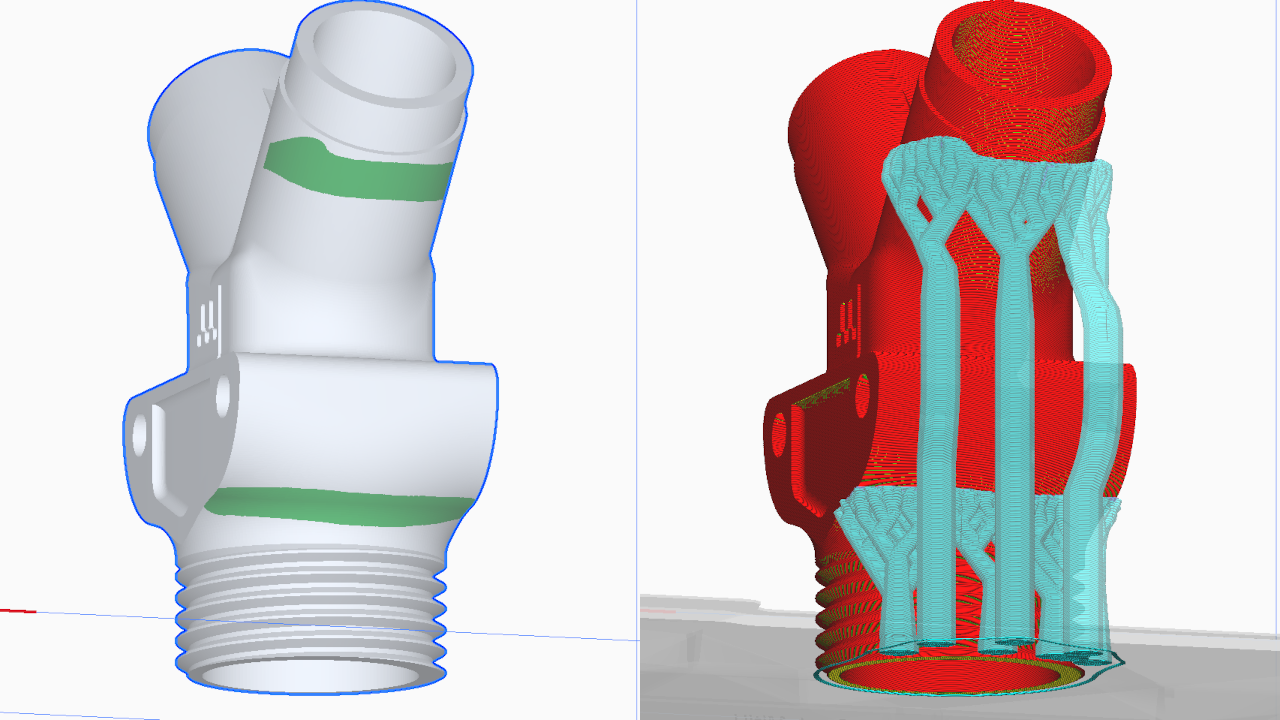
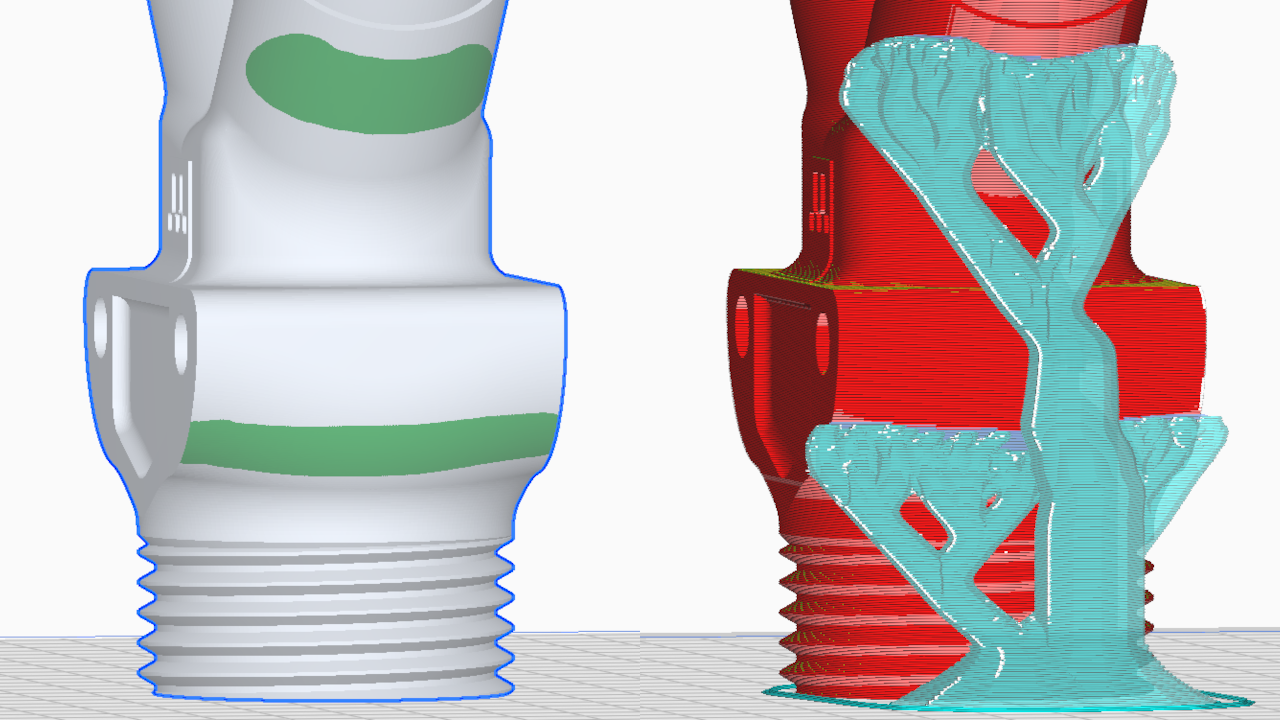
Up-to-date what's new pages for 5.14
CURA-13333

diff --git a/cura/resources/texts/whats_new/0.html b/cura/resources/texts/whats_new/0.html
@@ -1,2 +1,2 @@
-<h4>Support painting tool</h4>
-<p>Take complete control over your supports with our new Support Painting feature. You can now customize exactly where supports are placed simply by brushing them directly onto your 3D model. Whether you want to fine-tune auto-generated structures or paint an entirely custom support pattern from scratch, this intuitive tool gives you absolute authority over your print's stability. By targeting only the necessary areas, you can significantly reduce print times, save filament, and ensure cleaner surface finishes upon support removal.</p>
+<h4>Smarter supports</h4>
+<p>Take complete control over your supports with our new Support Painting feature. You can now customize exactly where supports are placed simply by brushing them directly onto your 3D model. Whether you want to fine-tune auto-generated structures or paint an entirely custom support pattern from scratch, this intuitive tool gives you absolute authority over your print's stability. Tree supports also got smarter with these new features: additional base for stability, smoothing and dynamic wall thickness. By combining them all, you can significantly reduce print times, save filament, and ensure cleaner surface finishes upon support removal.</p>

diff --git a/cura/resources/texts/whats_new/1.html b/cura/resources/texts/whats_new/1.html
@@ -1,2 +1,2 @@
-<h4>Experimental support for Windows on ARM platforms</h4>
-<p>With this release, we are excited to introduce an experimental Cura installer built specifically for Windows on ARM architecture. This preview allows users on ARM-powered devices (such as those running Qualcomm Snapdragon processors) to experience the native Cura workflow and performance. Please note that as an experimental release, you may encounter occasional bugs or performance inconsistencies. We highly encourage our community to test it out and share feedback to help us refine the experience.</p>
+<h4>Improved painting</h4>
+<p>Painting on models is now even more intuitive: you can paint entire faces or connected groups at once, and hold Shift to draw perfectly straight lines.</p>

diff --git a/cura/resources/texts/whats_new/3.html b/cura/resources/texts/whats_new/3.html
@@ -1,0 +1,2 @@
+<h4>Improved bridging strategies</h4>
+<p>Bridging and overhanging lines are now highlighted in the preview with their own distinct color. This improvement lets us fine-tune bridging behavior, ensuring it activates precisely when needed to maintain the highest visual quality for your prints in any scenario.</p>

diff --git a/cura/resources/texts/whats_new/2.html b/cura/resources/texts/whats_new/2.html
@@ -1,0 +1,2 @@
+<h4>Tabbed settings</h4>
+<p>We’ve streamlined your workflow by organizing the list of settings into intuitive tabs for easier access. Inspired by the popular plugin by @fieldofview, now integrated directly into our core software.</p>
